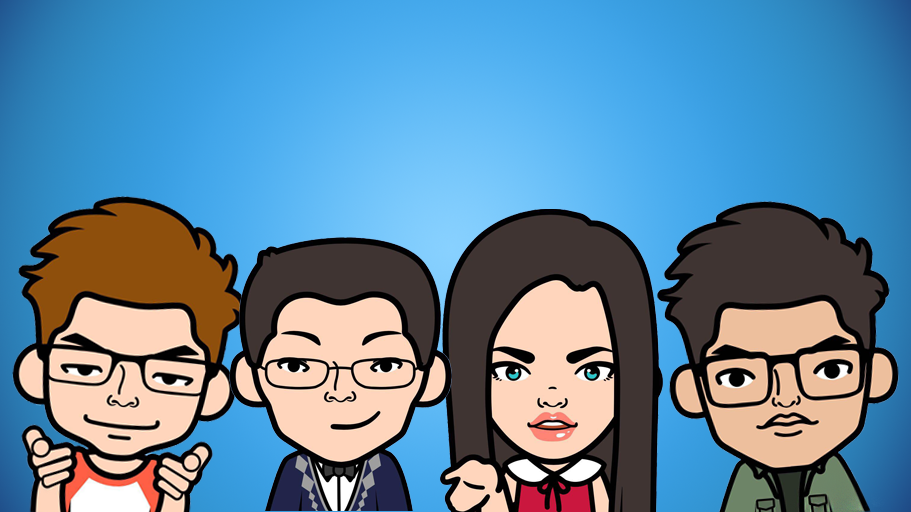
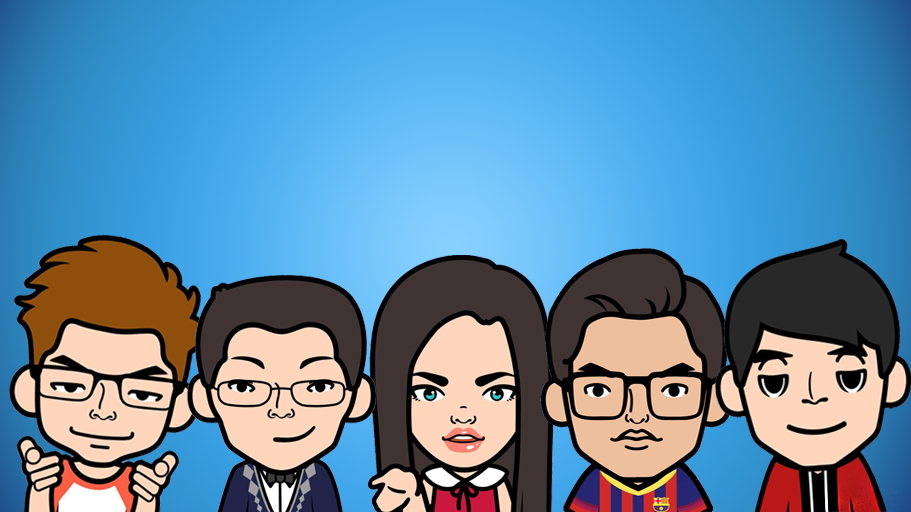
V1-48 Another texture is chosen for the life line of the knight. Added the fifth developer to the screen "aboutScreen".

diff --git a/core/src/com/spbstu/android/game/screens/AboutScreen.java b/core/src/com/spbstu/android/game/screens/AboutScreen.java
@@ -46,14 +46,15 @@ public class AboutScreen extends ScreenAdapter {
         BitmapFont font12 = generator.generateFont(parameter);
         generator.dispose();
         Label label = new Label("Developed by:\n" +
-                "Zatylkin Pavel\n" +
-                "Lesik Demyan\n" +
+                "Demyanov Dmitriy\n" +
                 "Feofilaktov Mikhail\n" +
+                "Lesik Demyan\n" +
                 "Shabalina Anastasia\n" +
+                "Zatylkin Pavel\n" +
                 "Peter the Great St.Petersburg\n" +
                 "Polytechnic University\n" +
                 "May, 2017" , new Label.LabelStyle(font12, Color.WHITE));
-        label.setPosition(Gdx.graphics.getWidth()/3f, Gdx.graphics.getHeight()/ 2f);
+        label.setPosition(Gdx.graphics.getWidth()/3f, 2*Gdx.graphics.getHeight()/ 5f);
         stage.addActor(label);
 
         menuButton.setBounds(999*(WIDTH - maxButtonsSize + 7 )/1000f, 99*(HEIGHT - maxButtonsSize +10)/100f, maxButtonsSize * 2 / 3, maxButtonsSize * 2 / 3);
